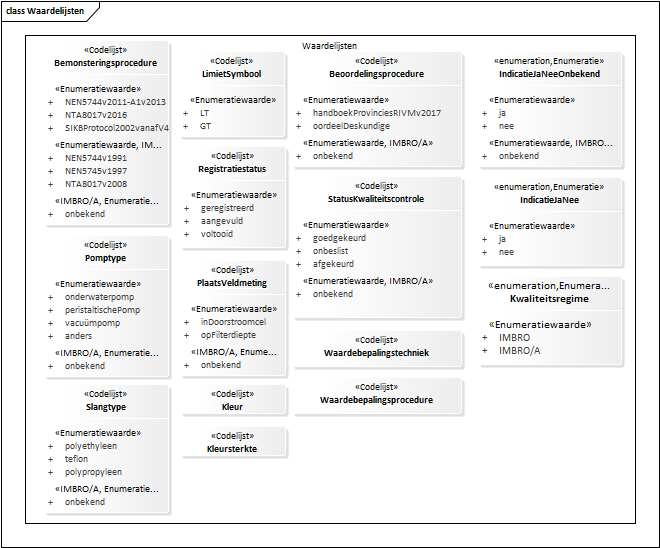
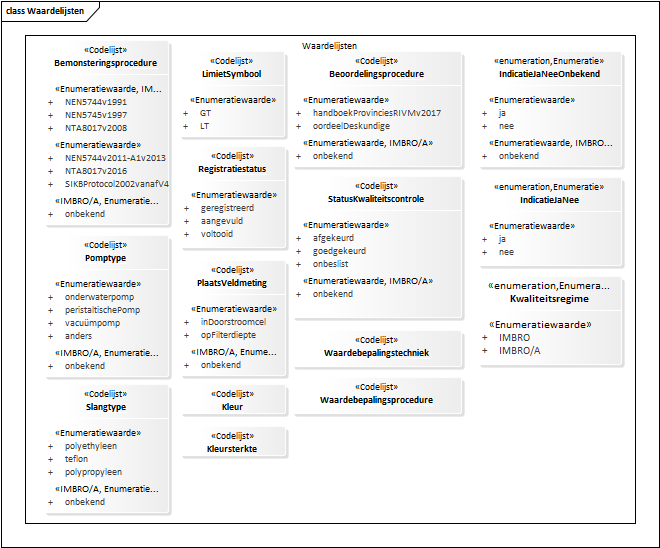
Conceptualmodel-GrondwatersamenstellingsonderzoekGAR-0.9.1-2-20190328-20190808-132409

Changed region(s): [[0.0909, 0.1551, 0.2727, 0.3412], [0.4545, 0.4033, 0.5758, 0.4964], [0.303, 0.1861, 0.3333, 0.2482]]

diff --git a/data/GAR-cat.html b/data/GAR-cat.html
@@ -1,7 +1,7 @@
 <section id="cat" class="normative" level="1">
    <h2>Gegevensdefinitie</h2>
    <p><b>Deze tekst is normatief.</b>
-      <!--Conceptualmodel-GrondwatersamenstellingsonderzoekGAR-0.9.1-2-20190328-20190808-092141 imvertor 1.53.4--></p>
+      <!--Conceptualmodel-GrondwatersamenstellingsonderzoekGAR-0.9.1-2-20190328-20190808-132409 imvertor 1.53.4--></p>
    <section id="" level="3">
       <h3>Het domeinmodel </h3>
       <div class="imageinfo overview"><img src="data/Images/EAID_BBDCFEE2_BB5A_4b62_99F2_796C8F526D8F.png" usemap="#imagemap-EAID_BBDCFEE2_BB5A_4b62_99F2_796C8F526D8F"><map name="imagemap-EAID_BBDCFEE2_BB5A_4b62_99F2_796C8F526D8F">
@@ -550,7 +550,7 @@
                   </tr>
                   <tr>
                      <th>&nbsp;&nbsp;Opbouw</th>
-                     <td></td>
+                     <td>GMNNNNNNNNNNNNN</td>
                   </tr>
                   <tr>
                      <th>Materiële geschiedenis</th>
@@ -643,7 +643,7 @@
                   </tr>
                   <tr>
                      <th>&nbsp;&nbsp;Opbouw</th>
-                     <td></td>
+                     <td>GMWNNNNNNNNNNNN</td>
                   </tr>
                   <tr>
                      <th>Materiële geschiedenis</th>
@@ -869,14 +869,6 @@
                         <p xmlns="http://www.w3.org/1999/xhtml" xmlns:html="http://www.w3.org/1999/xhtml" xmlns:imvert="http://www.imvertor.org/schema/system">De onderneming moet binnen de basisregistratie ondergrond als uitvoerder van grondwatersamenstellingsonderzoek
                            bekend zijn.
                         </p>
-                        
-                     </td>
-                  </tr>
-                  <tr>
-                     <th>Regels IMBRO/A</th>
-                     <td>
-                        
-                        <p xmlns="http://www.w3.org/1999/xhtml" xmlns:html="http://www.w3.org/1999/xhtml" xmlns:imvert="http://www.imvertor.org/schema/system">Voor IMBRO/A-gegevens mag de waarde ontbreken. </p>
                         
                      </td>
                   </tr>
@@ -2125,14 +2117,6 @@
                      </td>
                   </tr>
                   <tr>
-                     <th>Regels IMBRO/A</th>
-                     <td>
-                        
-                        <p xmlns="http://www.w3.org/1999/xhtml" xmlns:html="http://www.w3.org/1999/xhtml" xmlns:imvert="http://www.imvertor.org/schema/system">Voor IMBRO/A-gegevens mag de waarde ontbreken. </p>
-                        
-                     </td>
-                  </tr>
-                  <tr>
                      <th>Toelichting</th>
                      <td>
                         
@@ -2495,13 +2479,8 @@
                            In alle andere gevallen is de meeteenheid gelijk aan de eenheid in de parameterlijst.
                         </p>
                         
-                     </td>
-                  </tr>
-                  <tr>
-                     <th>Regels IMBRO/A</th>
-                     <td>
-                        
-                        <p xmlns="http://www.w3.org/1999/xhtml" xmlns:html="http://www.w3.org/1999/xhtml" xmlns:imvert="http://www.imvertor.org/schema/system">Voor IMBRO/A-gegevens mag de waarde ontbreken wanneer het attribuut <em>limietsymbool</em> aanwezig is. 
+                        <p xmlns="http://www.w3.org/1999/xhtml" xmlns:html="http://www.w3.org/1999/xhtml" xmlns:imvert="http://www.imvertor.org/schema/system">--Reden geen waarde
+                           Voor IMBRO/A-gegevens mag de waarde ontbreken wanneer het attribuut <em>limietsymbool</em> aanwezig is. 
                         </p>
                         
                      </td>
@@ -8307,6 +8286,20 @@
                   <th>Definitie</th>
                </tr>
                <tr>
+                  <td>NEN5744v1991</td>
+                  <td></td>
+                  <td>✔</td>
+                  <td>
+                     
+                     <p xmlns="http://www.w3.org/1999/xhtml" xmlns:html="http://www.w3.org/1999/xhtml" xmlns:imvert="http://www.imvertor.org/schema/system">Nederlandse norm NEN 5744 Bodem - Monsterneming van grondwater ten behoeve van de
+                        bepaling van metalen, anorganische verbindingen, matig-vluchtige organische verbindingen
+                        en fysisch-chemische eigenschappen, 1991
+                        Deze norm is ingetrokken en vervangen door NEN 5744, 2011.
+                     </p>
+                     
+                  </td>
+               </tr>
+               <tr>
                   <td>NEN5744v2011-A1v2013</td>
                   <td>✔</td>
                   <td>✔</td>
@@ -8314,6 +8307,32 @@
                      
                      <p xmlns="http://www.w3.org/1999/xhtml" xmlns:html="http://www.w3.org/1999/xhtml" xmlns:imvert="http://www.imvertor.org/schema/system">Nederlandse norm NEN 5744 Bodem - Monsterneming van grondwater, maart 2011 met aanvulling
                         april 2013.
+                     </p>
+                     
+                  </td>
+               </tr>
+               <tr>
+                  <td>NEN5745v1997</td>
+                  <td></td>
+                  <td>✔</td>
+                  <td>
+                     
+                     <p xmlns="http://www.w3.org/1999/xhtml" xmlns:html="http://www.w3.org/1999/xhtml" xmlns:imvert="http://www.imvertor.org/schema/system">Nederlandse norm NEN 5745 Bodem - Monsterneming van grondwater ten behoeve van de
+                        bepaling van vluchtige verbindingen, 1997
+                        Deze norm is ingetrokken en vervangen door NEN 5744, 2011.
+                     </p>
+                     
+                  </td>
+               </tr>
+               <tr>
+                  <td>NTA8017v2008</td>
+                  <td></td>
+                  <td>✔</td>
+                  <td>
+                     
+                     <p xmlns="http://www.w3.org/1999/xhtml" xmlns:html="http://www.w3.org/1999/xhtml" xmlns:imvert="http://www.imvertor.org/schema/system">Nederlandse technische afspraak NTA 8017,  Monsterneming van grondwater ten behoeve
+                        van de monitoring van grondwaterkwaliteit, februari 2008.
+                        Deze norm is ingetrokken en vervangen door NTA 8017, 2016.
                      </p>
                      
                   </td>
@@ -8341,46 +8360,6 @@
                         geen relevante wijzigingen voor (de gegevens van) het grondwatersamenstellingsonderzoek
                         bevatten. Dit protocol is onderdeel van SIKB 2000 (certificatieschema of accreditatieschema)
                         dat van toepassing is op het nemen van grondwatermonsters bij milieuhygiënisch bodemonderzoek.
-                     </p>
-                     
-                  </td>
-               </tr>
-               <tr>
-                  <td>NEN5744v1991</td>
-                  <td></td>
-                  <td>✔</td>
-                  <td>
-                     
-                     <p xmlns="http://www.w3.org/1999/xhtml" xmlns:html="http://www.w3.org/1999/xhtml" xmlns:imvert="http://www.imvertor.org/schema/system">Nederlandse norm NEN 5744 Bodem - Monsterneming van grondwater ten behoeve van de
-                        bepaling van metalen, anorganische verbindingen, matig-vluchtige organische verbindingen
-                        en fysisch-chemische eigenschappen, 1991
-                        Deze norm is ingetrokken en vervangen door NEN 5744, 2011.
-                     </p>
-                     
-                  </td>
-               </tr>
-               <tr>
-                  <td>NEN5745v1997</td>
-                  <td></td>
-                  <td>✔</td>
-                  <td>
-                     
-                     <p xmlns="http://www.w3.org/1999/xhtml" xmlns:html="http://www.w3.org/1999/xhtml" xmlns:imvert="http://www.imvertor.org/schema/system">Nederlandse norm NEN 5745 Bodem - Monsterneming van grondwater ten behoeve van de
-                        bepaling van vluchtige verbindingen, 1997
-                        Deze norm is ingetrokken en vervangen door NEN 5744, 2011.
-                     </p>
-                     
-                  </td>
-               </tr>
-               <tr>
-                  <td>NTA8017v2008</td>
-                  <td></td>
-                  <td>✔</td>
-                  <td>
-                     
-                     <p xmlns="http://www.w3.org/1999/xhtml" xmlns:html="http://www.w3.org/1999/xhtml" xmlns:imvert="http://www.imvertor.org/schema/system">Nederlandse technische afspraak NTA 8017,  Monsterneming van grondwater ten behoeve
-                        van de monitoring van grondwaterkwaliteit, februari 2008.
-                        Deze norm is ingetrokken en vervangen door NTA 8017, 2016.
                      </p>
                      
                   </td>
@@ -8514,41 +8493,6 @@
                   <th>Definitie</th>
                </tr>
                <tr>
-                  <td>goedgekeurd</td>
-                  <td>✔</td>
-                  <td>✔</td>
-                  <td>
-                     
-                     <p xmlns="http://www.w3.org/1999/xhtml" xmlns:html="http://www.w3.org/1999/xhtml" xmlns:imvert="http://www.imvertor.org/schema/system">Er is geen reden om aan de juistheid van dit gegeven te twijfelen op basis van de
-                        gehanteerde <em>beoordelingsprocedure.</em>
-                        
-                     </p>
-                     
-                     <p xmlns="http://www.w3.org/1999/xhtml" xmlns:html="http://www.w3.org/1999/xhtml" xmlns:imvert="http://www.imvertor.org/schema/system">Bij IMBRO/A gegevens kan het voorkomen dat de <em>beoordelingsprocedure</em> onbekend is of dat het niet mogelijk is de volledige procedure uit te voeren omdat
-                        daarvoor gegevens ontbreken. Desondanks is er geen reden om aan de juistheid van dit
-                        gegeven te twijfelen.
-                     </p>
-                     
-                  </td>
-               </tr>
-               <tr>
-                  <td>onbeslist</td>
-                  <td>✔</td>
-                  <td>✔</td>
-                  <td>
-                     
-                     <p xmlns="http://www.w3.org/1999/xhtml" xmlns:html="http://www.w3.org/1999/xhtml" xmlns:imvert="http://www.imvertor.org/schema/system">Er zijn twijfels over de juistheid van dit gegeven, maar uitsluitsel kon niet gegeven
-                        worden op basis van de gehanteerde <em>beoordelingsprocedure</em>.
-                     </p>
-                     
-                     <p xmlns="http://www.w3.org/1999/xhtml" xmlns:html="http://www.w3.org/1999/xhtml" xmlns:imvert="http://www.imvertor.org/schema/system">De beoordeling kan bij IMBRO/A gegevens tot stand gekomen zijn aan de hand van een
-                        niet volledig uitgevoerde <em>beoordelingsprocedure</em>omdat daarvoor gegevens ontbreken, of aan de hand van een onbekende <em>beoordelingsprocedure.</em>
-                        
-                     </p>
-                     
-                  </td>
-               </tr>
-               <tr>
                   <td>afgekeurd</td>
                   <td>✔</td>
                   <td>✔</td>
@@ -8567,6 +8511,24 @@
                   </td>
                </tr>
                <tr>
+                  <td>goedgekeurd</td>
+                  <td>✔</td>
+                  <td>✔</td>
+                  <td>
+                     
+                     <p xmlns="http://www.w3.org/1999/xhtml" xmlns:html="http://www.w3.org/1999/xhtml" xmlns:imvert="http://www.imvertor.org/schema/system">Er is geen reden om aan de juistheid van dit gegeven te twijfelen op basis van de
+                        gehanteerde <em>beoordelingsprocedure.</em>
+                        
+                     </p>
+                     
+                     <p xmlns="http://www.w3.org/1999/xhtml" xmlns:html="http://www.w3.org/1999/xhtml" xmlns:imvert="http://www.imvertor.org/schema/system">Bij IMBRO/A gegevens kan het voorkomen dat de <em>beoordelingsprocedure</em> onbekend is of dat het niet mogelijk is de volledige procedure uit te voeren omdat
+                        daarvoor gegevens ontbreken. Desondanks is er geen reden om aan de juistheid van dit
+                        gegeven te twijfelen.
+                     </p>
+                     
+                  </td>
+               </tr>
+               <tr>
                   <td>onbekend</td>
                   <td></td>
                   <td>✔</td>
@@ -8574,6 +8536,23 @@
                      
                      <p xmlns="http://www.w3.org/1999/xhtml" xmlns:html="http://www.w3.org/1999/xhtml" xmlns:imvert="http://www.imvertor.org/schema/system">Er is geen beoordeling gedaan van de kwaliteit, of het is onbekend of er een beoordeling
                         is gedaan (IMBRO/A kwaliteitsregime). 
+                     </p>
+                     
+                  </td>
+               </tr>
+               <tr>
+                  <td>onbeslist</td>
+                  <td>✔</td>
+                  <td>✔</td>
+                  <td>
+                     
+                     <p xmlns="http://www.w3.org/1999/xhtml" xmlns:html="http://www.w3.org/1999/xhtml" xmlns:imvert="http://www.imvertor.org/schema/system">Er zijn twijfels over de juistheid van dit gegeven, maar uitsluitsel kon niet gegeven
+                        worden op basis van de gehanteerde <em>beoordelingsprocedure</em>.
+                     </p>
+                     
+                     <p xmlns="http://www.w3.org/1999/xhtml" xmlns:html="http://www.w3.org/1999/xhtml" xmlns:imvert="http://www.imvertor.org/schema/system">De beoordeling kan bij IMBRO/A gegevens tot stand gekomen zijn aan de hand van een
+                        niet volledig uitgevoerde <em>beoordelingsprocedure</em>omdat daarvoor gegevens ontbreken, of aan de hand van een onbekende <em>beoordelingsprocedure.</em>
+                        
                      </p>
                      
                   </td>
@@ -8614,19 +8593,6 @@
                   <th>Definitie</th>
                </tr>
                <tr>
-                  <td>LT</td>
-                  <td>✔</td>
-                  <td>✔</td>
-                  <td>
-                     
-                     <p xmlns="http://www.w3.org/1999/xhtml" xmlns:html="http://www.w3.org/1999/xhtml" xmlns:imvert="http://www.imvertor.org/schema/system">De gemeten waarde is kleiner dan de laagste rapportagegrens welke is ingevuld bij
-                        het attribuut <em>waarde.</em>
-                        
-                     </p>
-                     
-                  </td>
-               </tr>
-               <tr>
                   <td>GT</td>
                   <td>✔</td>
                   <td>✔</td>
@@ -8634,6 +8600,19 @@
                      
                      <p xmlns="http://www.w3.org/1999/xhtml" xmlns:html="http://www.w3.org/1999/xhtml" xmlns:imvert="http://www.imvertor.org/schema/system">De gemeten waarde is groter dan de hoogste rapportagegrens welke is ingevuld bij het
                         attribuut <em>waarde.</em>
+                        
+                     </p>
+                     
+                  </td>
+               </tr>
+               <tr>
+                  <td>LT</td>
+                  <td>✔</td>
+                  <td>✔</td>
+                  <td>
+                     
+                     <p xmlns="http://www.w3.org/1999/xhtml" xmlns:html="http://www.w3.org/1999/xhtml" xmlns:imvert="http://www.imvertor.org/schema/system">De gemeten waarde is kleiner dan de laagste rapportagegrens welke is ingevuld bij
+                        het attribuut <em>waarde.</em>
                         
                      </p>
                      
